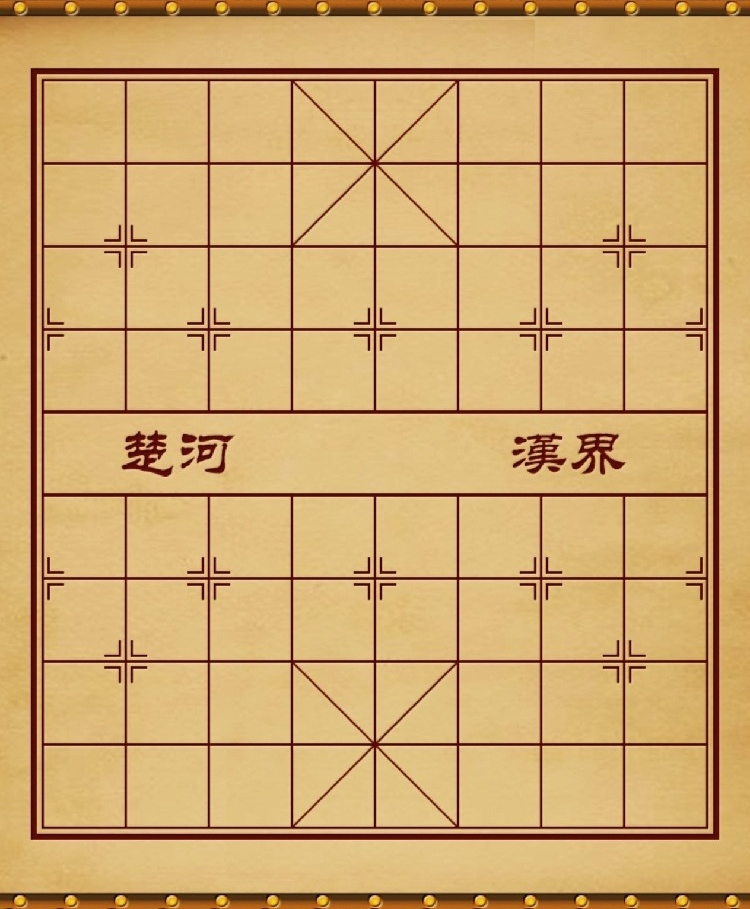
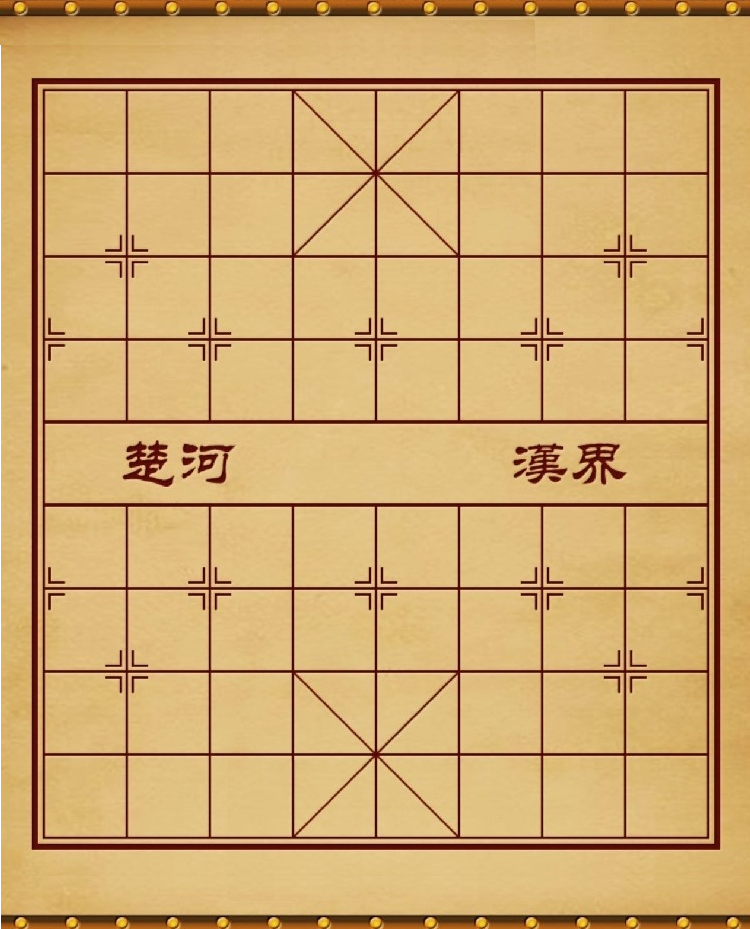
优化棋盘棋子

Changed region(s): [[0.0307, 0.0616, 0.9813, 0.9241], [0.0, 0.9549, 1.0, 1.0]]

diff --git a/src/ui/chess_view.py b/src/ui/chess_view.py
@@ -25,11 +25,22 @@ class ChessView:
         self.gx_raw = [33, 125, 208, 291, 374, 457, 540, 623, 706]
         self.gy_raw = [70, 163, 245, 328, 411, 494, 577, 661, 743, 827]
         self.padding_left = self.gx_raw[0] * self.scale
-        self.padding_top = self.gy_raw[0] * self.scale
-        # 棋子尺寸与棋盘缩放等比联动（原 scale=0.9 时为 72）
-        self.piece_size = int(80 * self.scale)
+        # 棋盘图上下各留 10px 空白：网格实际只占 board_height - 2*board_padding，
+        # 行坐标需扣除顶部留白，故 padding_top 不再取首行 raw 坐标，而取该留白。
+        self.board_padding = 10 * self.scale
+        self.padding_top = self.board_padding
+        # 棋子尺寸单独放大到 0.8 对应尺寸（64px），不随棋盘 scale 变化
+        self.piece_size = int(80 * 0.76)
         self.board_width = int(750 * self.scale)
-        self.board_height = int(909 * self.scale)
+        self.board_height = int((909 + 2 * 10) * self.scale)
+        # 所有棋子相对格线整体下移若干源像素（随缩放联动），高亮/提示线同步下移。
+        self.piece_offset_y = 10 * self.scale
+        # 红黑双方底线（y=0 / y=9）额外再向下偏移一点（避免贴边）。
+        self.line_extra_offset_y = 8 * self.scale
+        # 所有棋子相对格线整体向右偏移一点（随缩放联动）。
+        self.piece_offset_x = 6 * self.scale
+        # 最左列（x=0）棋子额外右移一点，使其不贴边不裁切，和其他列间距一致。
+        self.edge_offset_x = int(self.piece_size * 0.1)
         # 棋子以【中心】对齐图片格线交点（象棋棋子落在线点中心）
         self._piece_cx_off = -self.piece_size // 2
         self._piece_cy_off = -self.piece_size // 2
@@ -324,12 +335,14 @@ class ChessView:
         red_color = (196, 56, 48)     # 红方：红
         black_color = (70, 70, 82)    # 黑方：深灰
         # 黑方贴近边缘(0.3)；红方向内回收 0.1 -> 0.4（更靠近网格线）
-        top_y_black = int(self._gy(0) * 0.3)
-        bottom_y_black = int(self.board_height - (self.board_height - self._gy(9)) * 0.3)
-        top_y_red = int(self._gy(0) * 0.4)
-        bottom_y_red = int(self.board_height - (self.board_height - self._gy(9)) * 0.4)
+        # 座标整体向下偏移一点（与棋子视觉协调）
+        coord_offset_y = int(10 * self.scale)
+        top_y_black = int(self._gy(0) * 0.3) + coord_offset_y
+        bottom_y_black = int(self.board_height - (self.board_height - self._gy(9)) * 0.3) + coord_offset_y
+        top_y_red = int(self._gy(0) * 0.4) + coord_offset_y
+        bottom_y_red = int(self.board_height - (self.board_height - self._gy(9)) * 0.4) + coord_offset_y
         for x in range(9):
-            sx = self._gx_p(x)
+            sx = self._gx_p(x) + (self.edge_offset_x if x == 0 else 0)
             red_num = CN[8 - x]       # 红方右手(物理列8)=一，向左递增
             black_num = AR[x]         # 黑方右手(物理列0)=1，向右递增
             if self.board_flipped:
@@ -346,8 +359,11 @@ class ChessView:
             for x in range(9):
                 piece_id = self.chess_info.piece[y][x]
                 if piece_id > 0:
-                    screen_x = self._gx_p(x) + self._piece_cx_off
-                    screen_y = self._gy_p(9 - y) + self._piece_cy_off
+                    screen_x = self._gx_p(x) + self._piece_cx_off + self.piece_offset_x + (
+                        self.edge_offset_x if x == 0 else 0)
+                    # 所有棋子整体相对格线向下偏移；红黑底线额外再下移一点
+                    screen_y = self._gy_p(9 - y) + self._piece_cy_off + self.piece_offset_y + (
+                        self.line_extra_offset_y if y in (0, 9) else 0)
                     
                     if piece_id <= 7:
                         idx = piece_id - 1
@@ -366,7 +382,8 @@ class ChessView:
             
             if piece_id > 0:
                 screen_x = self._gx_p(x) + self._piece_cx_off
-                screen_y = self._gy_p(9 - y) + self._piece_cy_off
+                screen_y = self._gy_p(9 - y) + self._piece_cy_off + self.piece_offset_y + (
+                    self.line_extra_offset_y if y in (0, 9) else 0)
                 
                 is_red_piece = piece_id >= 8
                 # 颜色提示：选中格子叠加半透明底色（红方暖色 / 黑方冷色）
@@ -383,8 +400,10 @@ class ChessView:
     def _draw_possible_moves(self):
         if self.chess_info.ret:
             for pos in self.chess_info.ret:
-                screen_x = self._gx_p(pos.x) + self._piece_cx_off
-                screen_y = self._gy_p(9 - pos.y) + self._piece_cy_off
+                screen_x = self._gx_p(pos.x) + self._piece_cx_off + self.piece_offset_x + (
+                    self.edge_offset_x if pos.x == 0 else 0)
+                screen_y = self._gy_p(9 - pos.y) + self._piece_cy_off + self.piece_offset_y + (
+                    self.line_extra_offset_y if pos.y in (0, 9) else 0)
                 
                 if self._pot_scaled:
                     self.screen.blit(self._pot_scaled, (screen_x, screen_y))
@@ -402,10 +421,12 @@ class ChessView:
             draw_pre_y = 9 - pre_y
             draw_cur_y = 9 - cur_y
             
-            pre_screen_x = self._gx_p(pre_x) + self._piece_cx_off
-            pre_screen_y = self._gy_p(draw_pre_y) + self._piece_cy_off
-            cur_screen_x = self._gx_p(cur_x) + self._piece_cx_off
-            cur_screen_y = self._gy_p(draw_cur_y) + self._piece_cy_off
+            pre_screen_x = self._gx_p(pre_x) + self._piece_cx_off + self.piece_offset_x + (
+                self.edge_offset_x if pre_x == 0 else 0)
+            pre_screen_y = self._gy_p(draw_pre_y) + self._piece_cy_off + self.piece_offset_y
+            cur_screen_x = self._gx_p(cur_x) + self._piece_cx_off + self.piece_offset_x + (
+                self.edge_offset_x if cur_x == 0 else 0)
+            cur_screen_y = self._gy_p(draw_cur_y) + self._piece_cy_off + self.piece_offset_y
             
             is_black_piece = piece_id >= 1 and piece_id <= 7
             box_img = self._b_box_scaled if is_black_piece else self._r_box_scaled

diff --git a/src/ui/main_window.py b/src/ui/main_window.py
@@ -64,8 +64,10 @@ class MainWindow(BoardInteractionMixin, DialogsMixin, DrawHelpersMixin, EditPane
     def __init__(self):
         pygame.init()
         
+        # 棋盘尺寸交由 ChessView 计算（含上下各 10px 留白），此处先取初值占位，
+        # 实例化后会被 chess_view.board_width / board_height 覆盖，保证两者一致。
         self.board_width = int(750 * 0.72)
-        self.board_height = int(909 * 0.72)
+        self.board_height = int((909 + 2 * 10) * 0.72)
         self.sidebar_width = 250
         # 顶部菜单栏（新局/加载/保存/设置/对战模式）
         self.menu_h = 54
@@ -83,6 +85,9 @@ class MainWindow(BoardInteractionMixin, DialogsMixin, DrawHelpersMixin, EditPane
         self.chess_view = ChessView(
             self.screen.subsurface((0, self.board_offset_y, self.board_width, self.board_height)),
             self.chess_info)
+        # 以 ChessView 的实际尺寸为准（含上下各 10px 留白），回写主窗口，保证一致。
+        self.board_width = self.chess_view.board_width
+        self.board_height = self.chess_view.board_height
         self.ai = PikafishAI()
         # 独立于行棋引擎的“评估引擎”：评分/曲线/和棋判定都走它，
         # 与 self.ai（AI 行棋、支招）完全隔离，互不影响、互不抢占线程。
